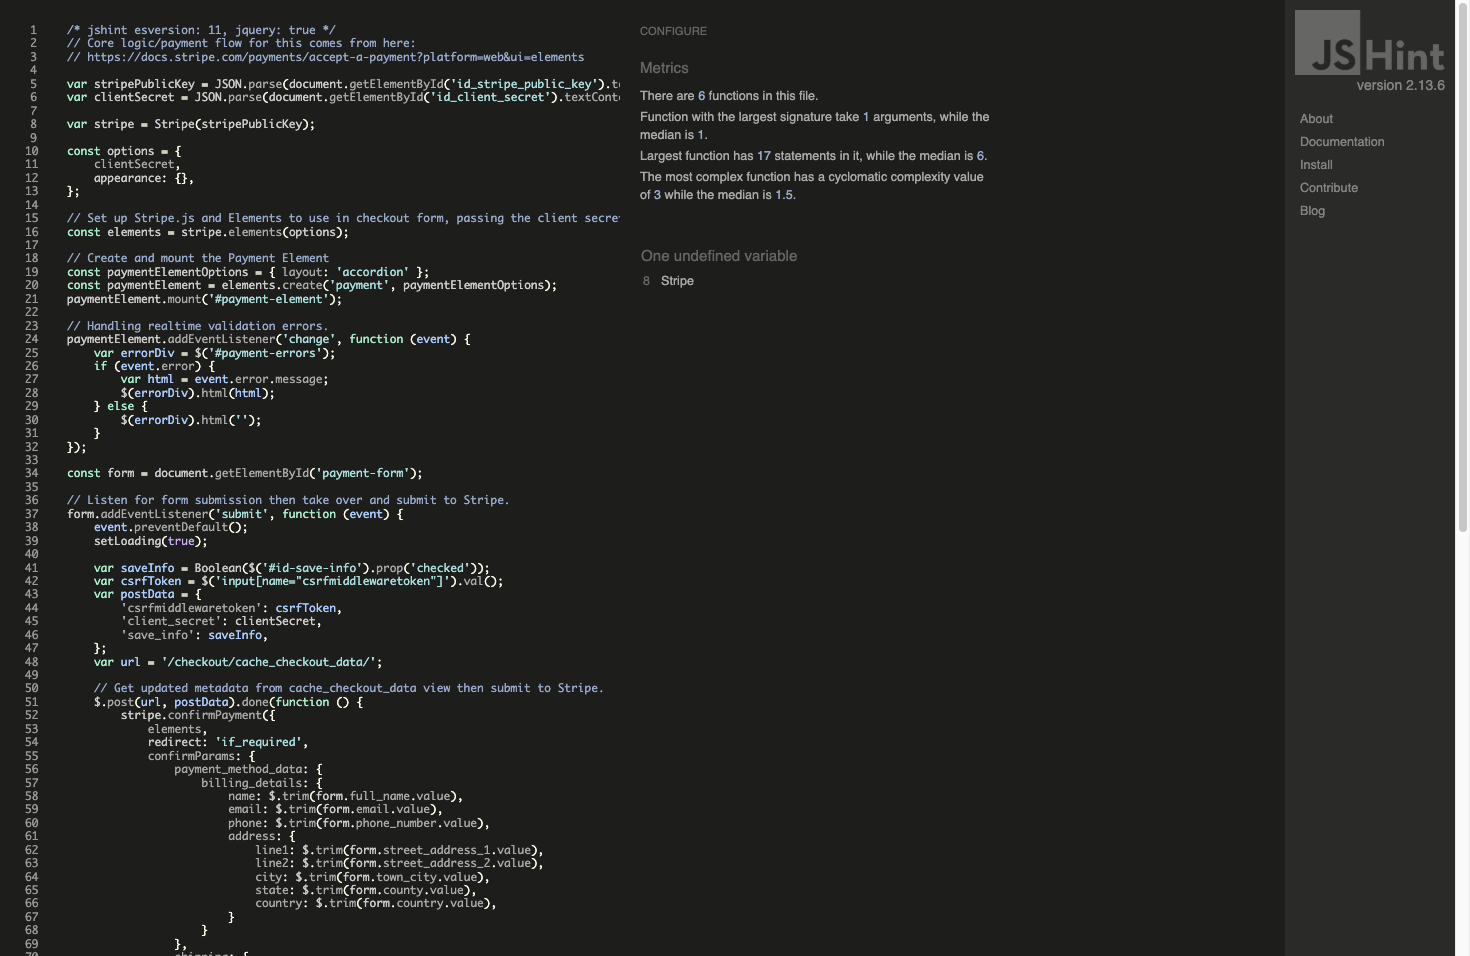
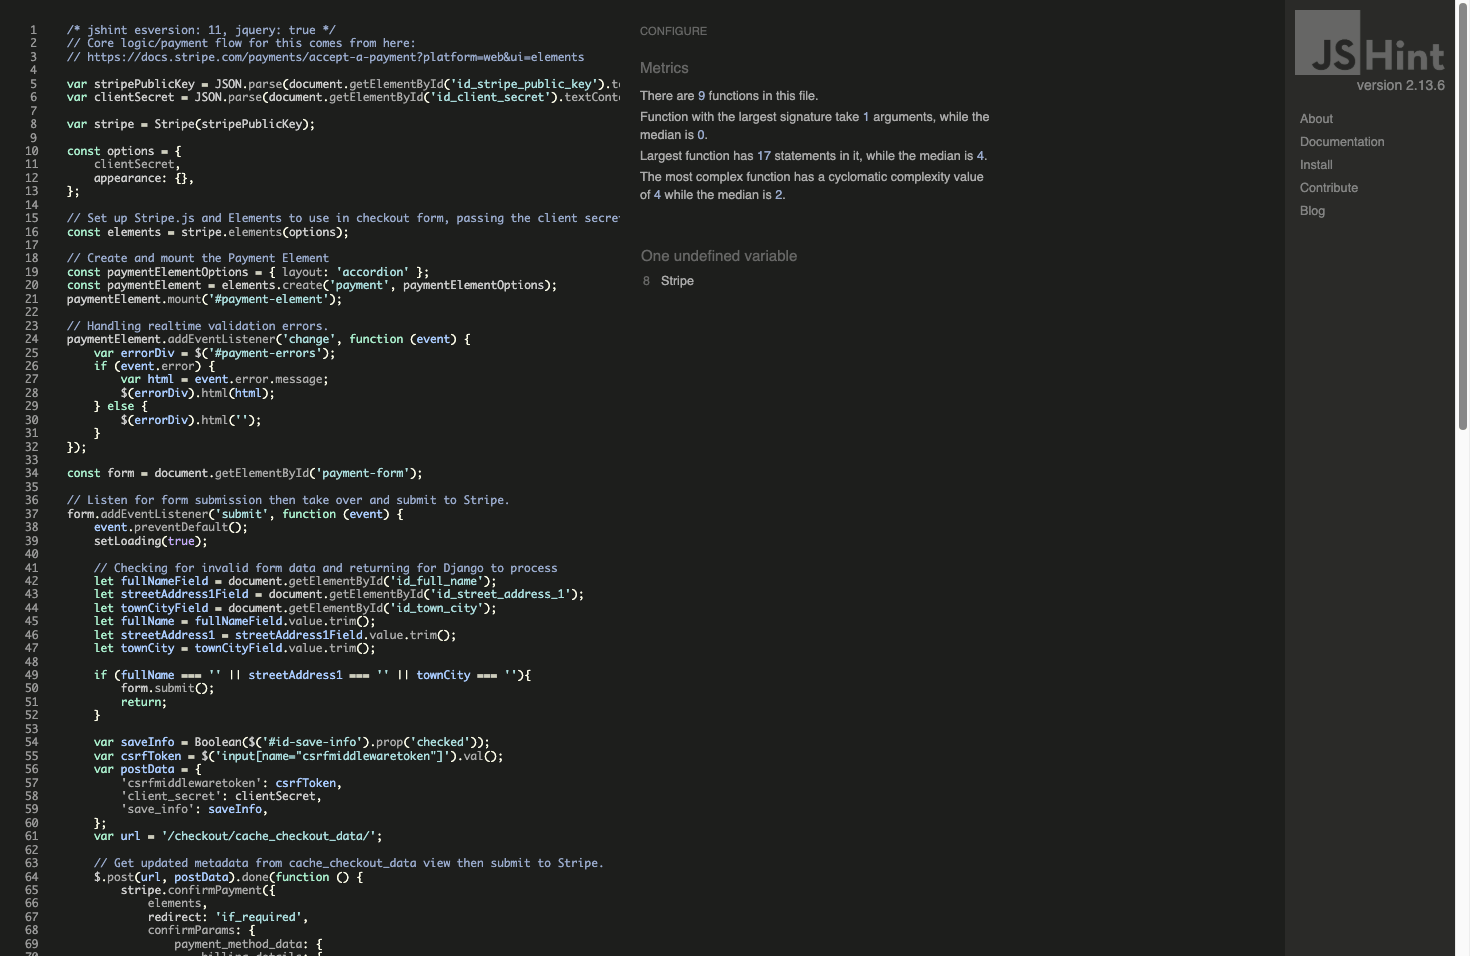
Revalidate scripts

Changed region(s): [[0.0612, 0.5764, 0.398, 1.0], [0.9796, 0.0, 1.0, 0.546]]

diff --git a/checkout/static/checkout/script/stripe_elements.js b/checkout/static/checkout/script/stripe_elements.js
@@ -39,16 +39,16 @@ form.addEventListener('submit', function (event) {
     setLoading(true);
 
     // Checking for invalid form data and returning for Django to process
-    let fullNameField = document.getElementById('id_full_name')
-    let streetAddress1Field = document.getElementById('id_street_address_1')
-    let townCityField = document.getElementById('id_town_city')
-    let fullName = fullNameField.value.trim()
-    let streetAddress1 = streetAddress1Field.value.trim()
-    let townCity = townCityField.value.trim()
+    let fullNameField = document.getElementById('id_full_name');
+    let streetAddress1Field = document.getElementById('id_street_address_1');
+    let townCityField = document.getElementById('id_town_city');
+    let fullName = fullNameField.value.trim();
+    let streetAddress1 = streetAddress1Field.value.trim();
+    let townCity = townCityField.value.trim();
 
     if (fullName === '' || streetAddress1 === '' || townCity === ''){
-        form.submit()
-        return
+        form.submit();
+        return;
     }
 
     var saveInfo = Boolean($('#id-save-info').prop('checked'));
@@ -151,4 +151,4 @@ submitButton.addEventListener('click', function () {
             }
         }
     }, 100);
-})
+});
